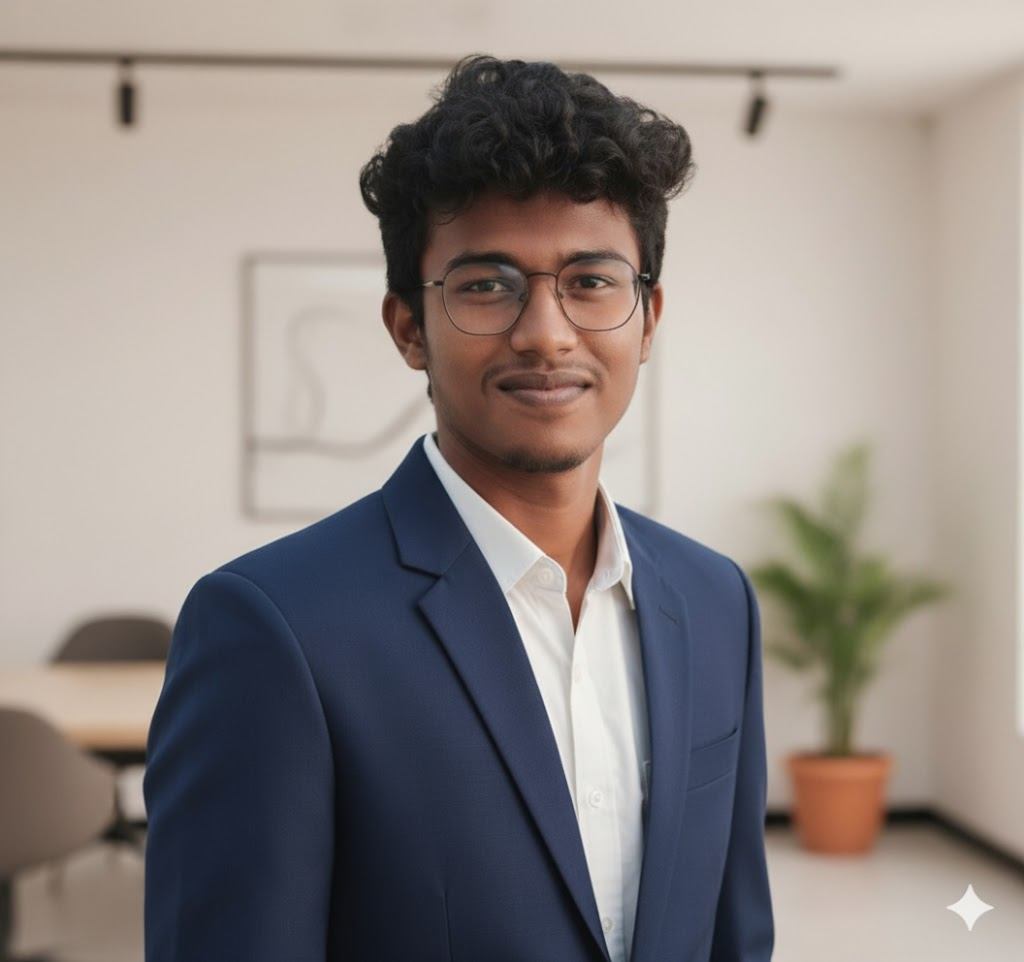
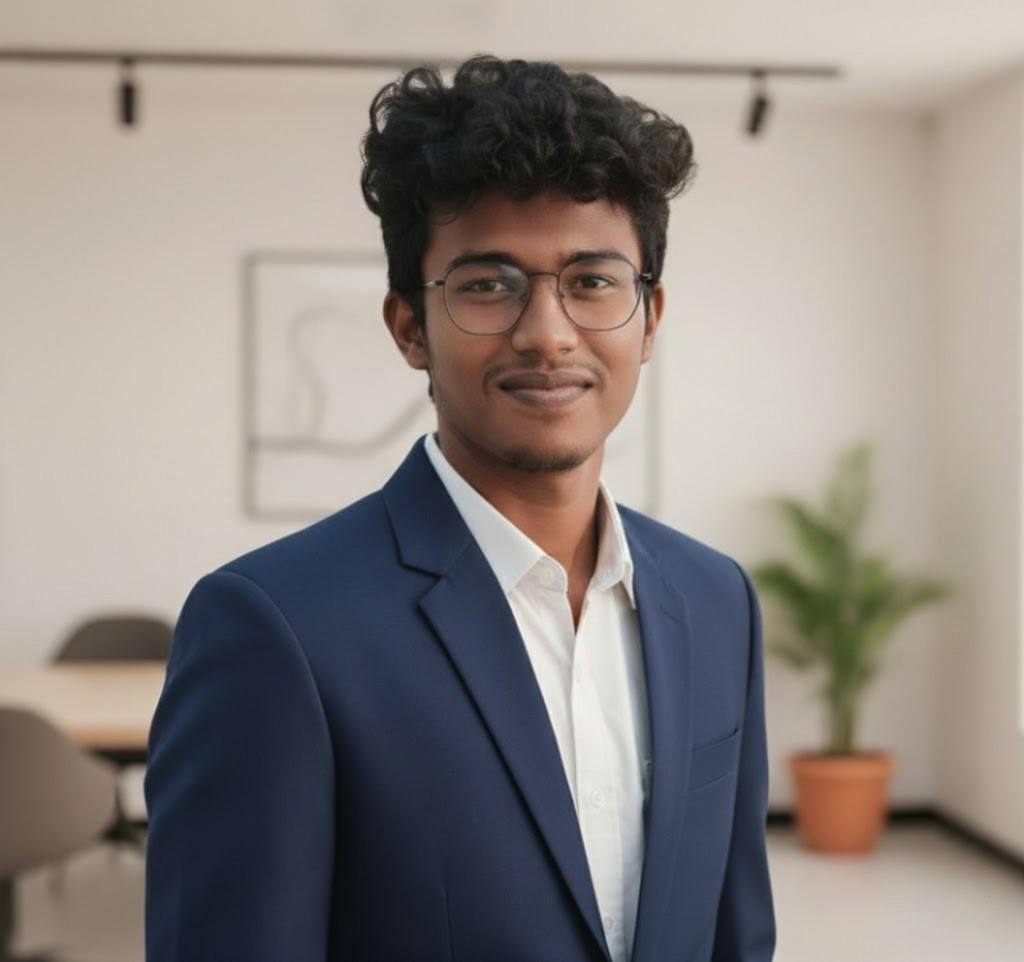
Updation

diff --git a/utils/projects.js b/utils/projects.js
@@ -2,7 +2,7 @@ const projects = {
     heading: `Things I've Worked on, Some of Them`,
     list: [
         {
-            image: '/assets/projects/discord-bot.png',
+            image: '/assets/project1.jpg',
             label: 'Automation',
             title: 'Discord Bot',
             description: 'Designed and deployed a custom Discord bot to automate server interactions and enhance community engagement. This bot handles tasks like welcoming new members, moderating content, and responding to user commands with real-time data. Built using JavaScript and Discord.js, it features modular command handling, role assignment, and API integration for dynamic responses.',
@@ -13,7 +13,7 @@ const projects = {
             ]
         },
         {
-            image: '/assets/projects/cms.png',
+            image: '/assets/project2.jpg',
             label: 'Featured Project',
             title: 'CMS - Classroom Management System',
             description: 'A comprehensive platform for managing classroom activities, assignments, and student interactions. This system streamlines communication between teachers and students, facilitates assignment submissions, and provides a centralized hub for educational resources. Built with a focus on user experience and accessibility.',
